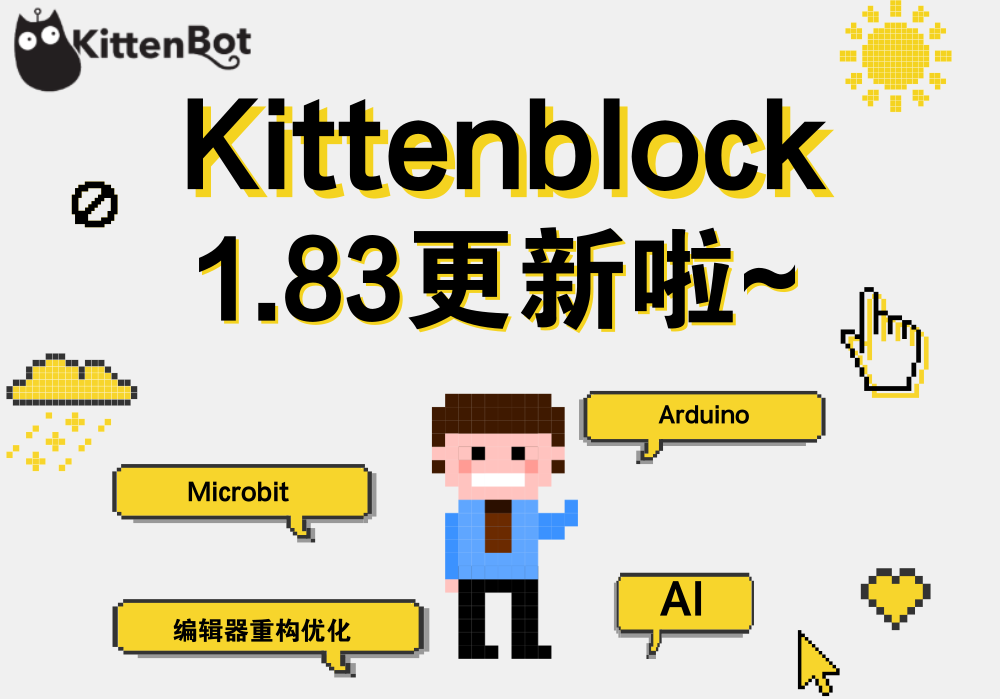
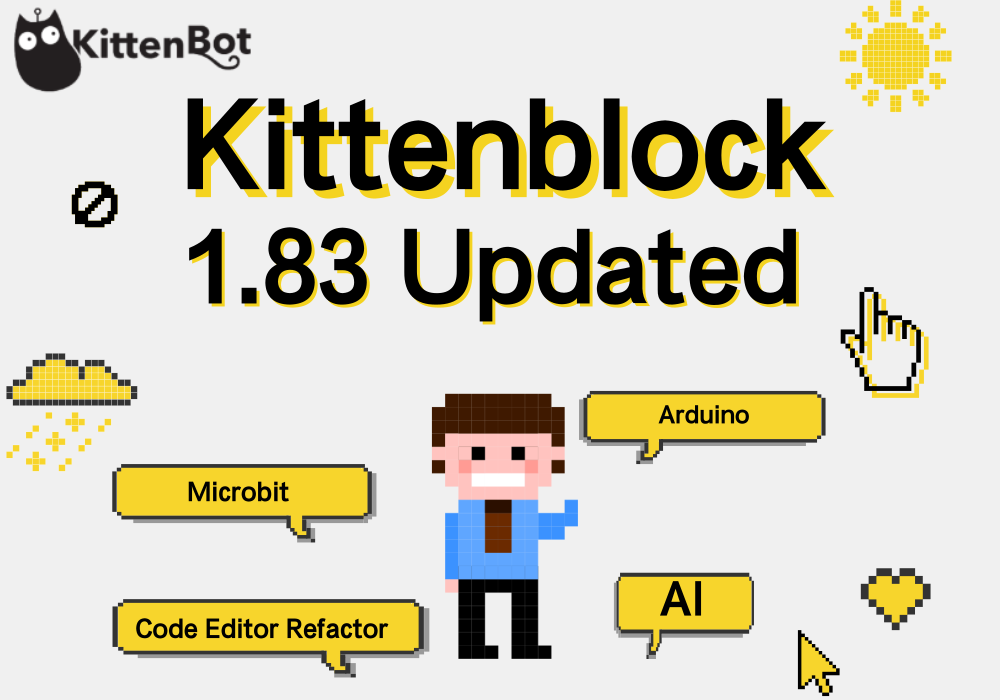
update page meta

diff --git a/meta/config.js b/meta/config.js
@@ -24,6 +24,11 @@ module.exports = {
   manifestThemeColor: "#666",
   manifestDisplay: "standalone",
 
+  /* multilanguage support */
+  blogTitle: "News from kittenbot",
+  conntactUs: "Conntact Us",
+  productTitle: "Products",
+
   // gravatar
   // Use your Gravatar image. If empty then will use src/images/jpg/avatar.jpg
   // Replace your email adress with md5-code.
